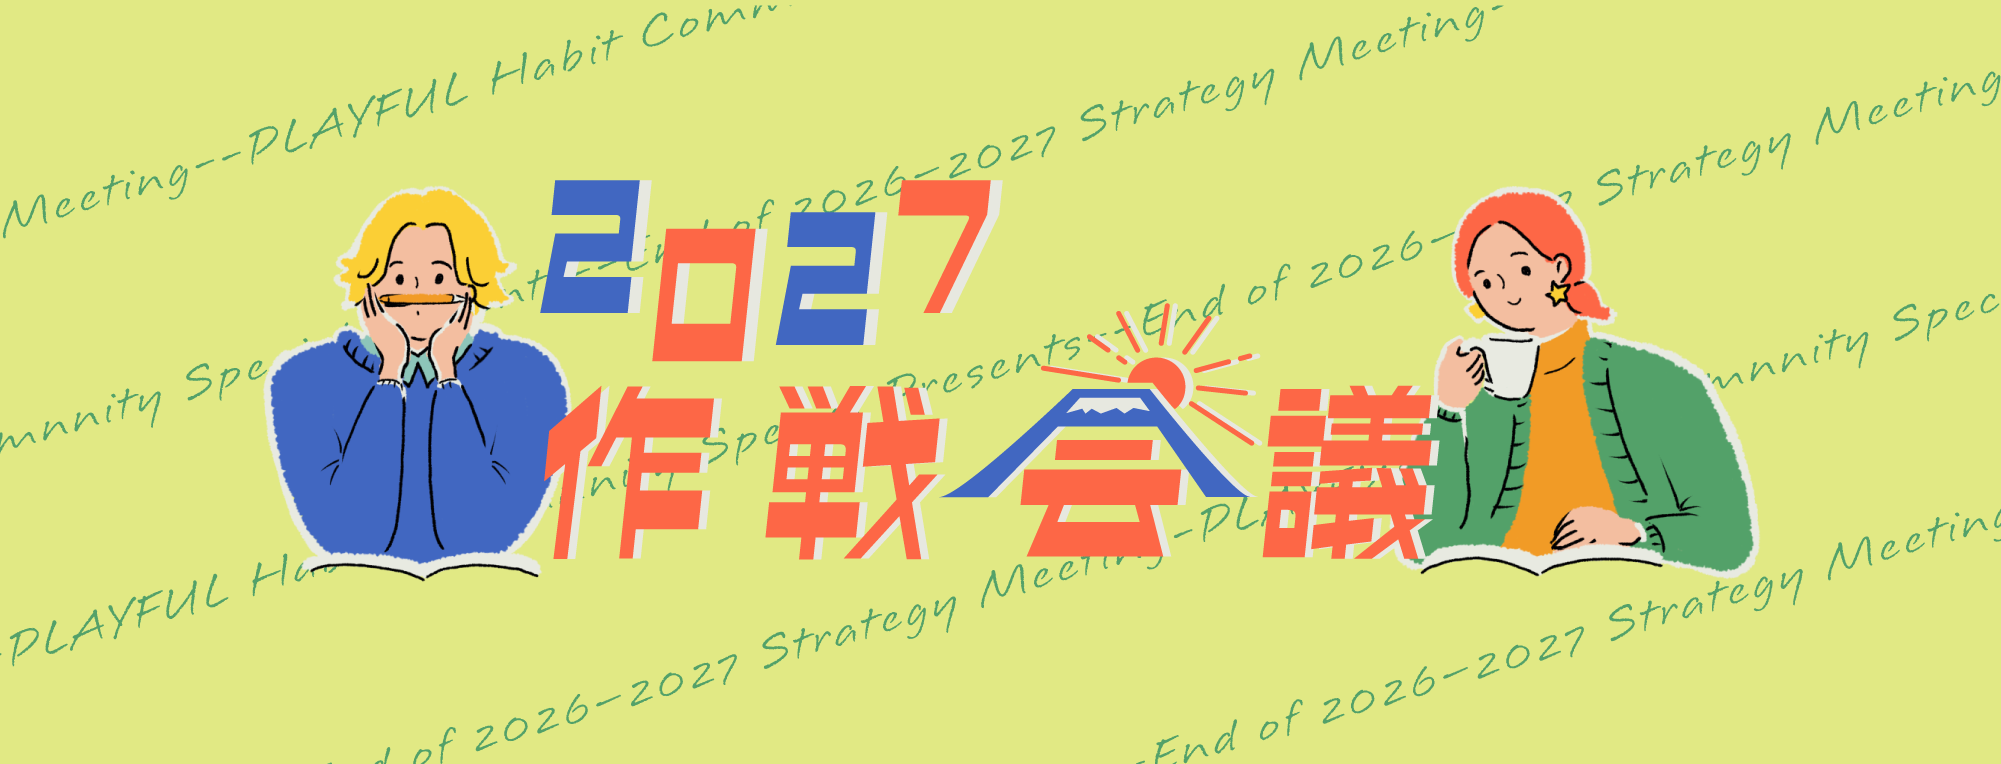
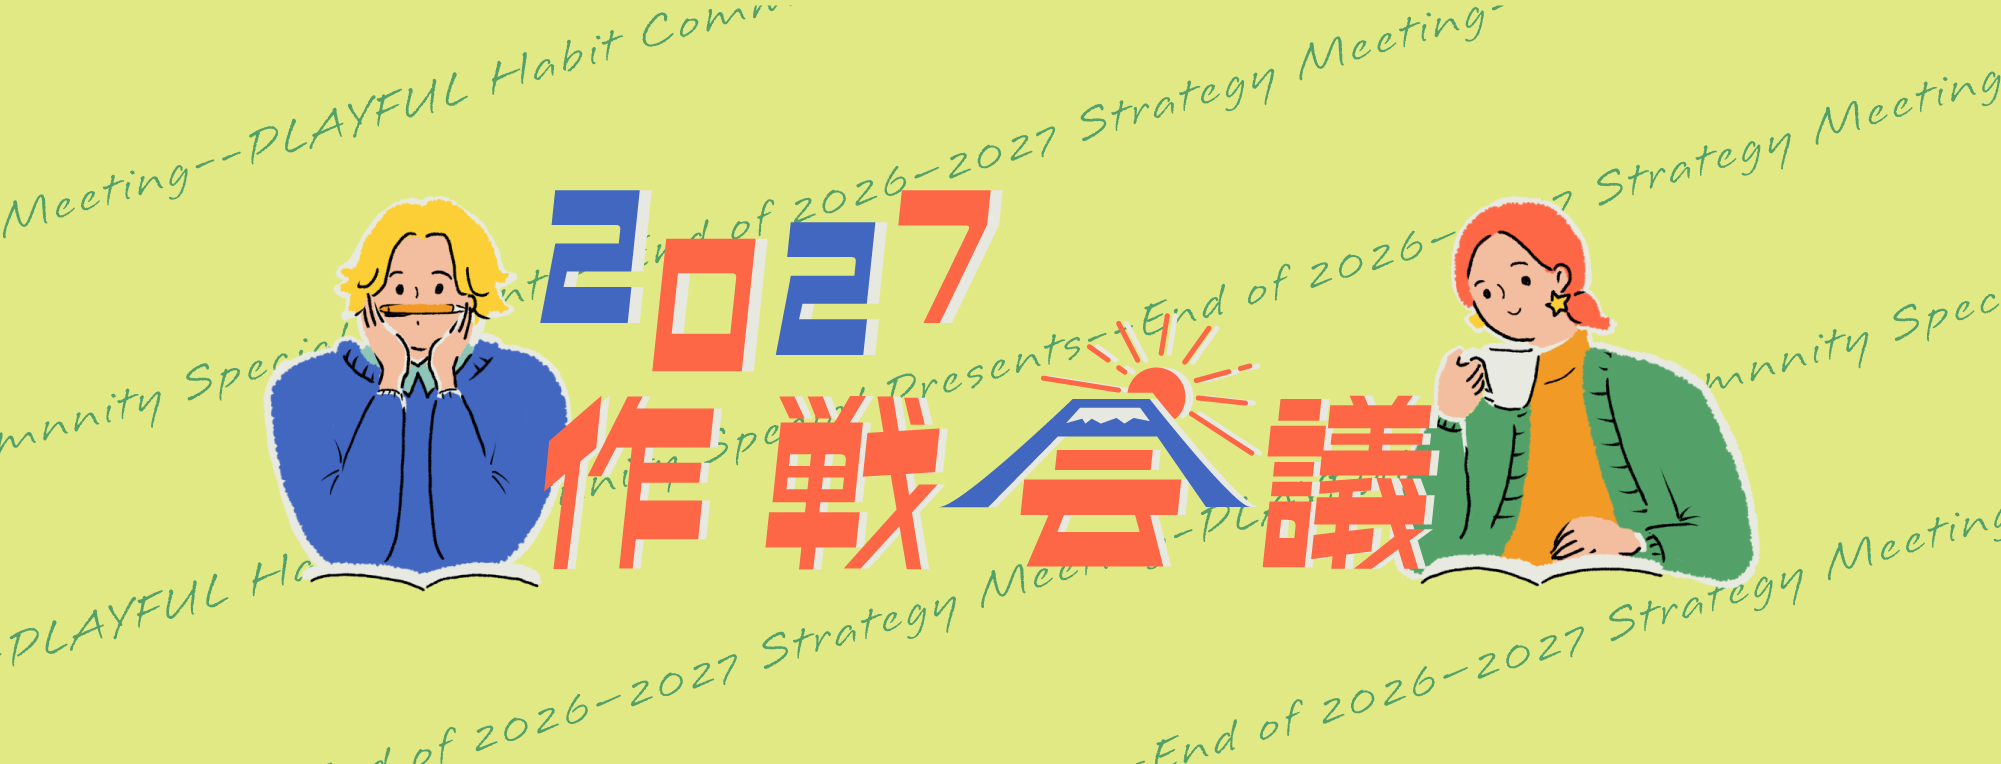
ホームのPC用ヘッダー画像を差し替え（ロゴ・キャラクターを少し下げた版）

Changed region(s): [[0.1239, 0.2107, 0.8986, 0.7827], [0.8676, 0.6021, 0.8986, 0.6623]]

diff --git a/index.html b/index.html
@@ -13,7 +13,7 @@
 <link rel="icon" type="image/png" sizes="192x192" href="img/icon-192.png?v=2">
 <link rel="apple-touch-icon" href="img/apple-touch-icon.png?v=2">
 <meta name="apple-mobile-web-app-title" content="作戦会議">
-<link rel="stylesheet" href="assets/style.css?v=20261120185023">
+<link rel="stylesheet" href="assets/style.css?v=20261120185724">
 </head>
 <body data-page="home">
 <header class="top"><div class="wrap">
@@ -22,7 +22,7 @@
 </div></header>
 
 <main>
-<section class="hero hero-img"><picture><source media="(min-width: 768px)" srcset="img/header-pc.png?v=1" width="2001" height="764"><img src="img/header.png?v=1" alt="2027年作戦会議" width="1601" height="604"></picture></section>
+<section class="hero hero-img"><picture><source media="(min-width: 768px)" srcset="img/header-pc.png?v=2" width="2001" height="764"><img src="img/header.png?v=1" alt="2027年作戦会議" width="1601" height="604"></picture></section>
 
 <section style="padding-top:32px"><div class="wrap">
   <div id="news"></div>
@@ -60,7 +60,7 @@
 </main>
 <footer><img src="img/playful-logo.png" alt="PLAYFUL" width="946" height="158">2027年作戦会議｜メンバー専用ページ<br>このページのURLは、メンバーの外に共有しないでください</footer>
 <nav class="tabbar" aria-label="メニュー"><a href="index.html" aria-current="page"><span class="i ic-home" aria-hidden="true"></span>ホーム</a><a href="zoom.html"><span class="i ic-zoom" aria-hidden="true"></span>Zoom</a><a href="odai.html"><span class="i ic-odai" aria-hidden="true"></span>問い</a><a href="work.html"><span class="i ic-work" aria-hidden="true"></span>ワーク</a><a href="library.html"><span class="i ic-library" aria-hidden="true"></span>ライブラリ</a></nav>
-<script src="data.js?v=20261120185023"></script>
-<script src="assets/app.js?v=20261120185023"></script>
+<script src="data.js?v=20261120185724"></script>
+<script src="assets/app.js?v=20261120185724"></script>
 </body>
 </html>

diff --git a/item.html b/item.html
@@ -13,7 +13,7 @@
 <link rel="icon" type="image/png" sizes="192x192" href="img/icon-192.png?v=2">
 <link rel="apple-touch-icon" href="img/apple-touch-icon.png?v=2">
 <meta name="apple-mobile-web-app-title" content="作戦会議">
-<link rel="stylesheet" href="assets/style.css?v=20261120185023">
+<link rel="stylesheet" href="assets/style.css?v=20261120185724">
 </head>
 <body data-page="item">
 <header class="top"><div class="wrap">
@@ -49,8 +49,8 @@
 <div class="lightbox" id="lb" role="dialog" aria-label="スライドの拡大表示"><img id="lbImg" src="" alt=""><button id="lbClose" type="button" aria-label="閉じる">✕</button></div>
 <footer><img src="img/playful-logo.png" alt="PLAYFUL" width="946" height="158">2027年作戦会議｜メンバー専用ページ<br>このページのURLは、メンバーの外に共有しないでください</footer>
 <nav class="tabbar" aria-label="メニュー"><a href="index.html"><span class="i ic-home" aria-hidden="true"></span>ホーム</a><a href="zoom.html"><span class="i ic-zoom" aria-hidden="true"></span>Zoom</a><a href="odai.html"><span class="i ic-odai" aria-hidden="true"></span>問い</a><a href="work.html"><span class="i ic-work" aria-hidden="true"></span>ワーク</a><a href="library.html" aria-current="page"><span class="i ic-library" aria-hidden="true"></span>ライブラリ</a></nav>
-<script src="data.js?v=20261120185023"></script>
-<script src="notes.js?v=20261120185023"></script>
-<script src="assets/app.js?v=20261120185023"></script>
+<script src="data.js?v=20261120185724"></script>
+<script src="notes.js?v=20261120185724"></script>
+<script src="assets/app.js?v=20261120185724"></script>
 </body>
 </html>

diff --git a/zoom.html b/zoom.html
@@ -13,7 +13,7 @@
 <link rel="icon" type="image/png" sizes="192x192" href="img/icon-192.png?v=2">
 <link rel="apple-touch-icon" href="img/apple-touch-icon.png?v=2">
 <meta name="apple-mobile-web-app-title" content="作戦会議">
-<link rel="stylesheet" href="assets/style.css?v=20261120185023">
+<link rel="stylesheet" href="assets/style.css?v=20261120185724">
 </head>
 <body data-page="zoom">
 <header class="top"><div class="wrap">
@@ -66,7 +66,7 @@
 <div class="lightbox" id="lb" role="dialog" aria-label="スライドの拡大表示"><img id="lbImg" src="" alt=""><button id="lbClose" type="button" aria-label="閉じる">✕</button></div>
 <footer><img src="img/playful-logo.png" alt="PLAYFUL" width="946" height="158">2027年作戦会議｜メンバー専用ページ<br>このページのURLは、メンバーの外に共有しないでください</footer>
 <nav class="tabbar" aria-label="メニュー"><a href="index.html"><span class="i ic-home" aria-hidden="true"></span>ホーム</a><a href="zoom.html" aria-current="page"><span class="i ic-zoom" aria-hidden="true"></span>Zoom</a><a href="odai.html"><span class="i ic-odai" aria-hidden="true"></span>問い</a><a href="work.html"><span class="i ic-work" aria-hidden="true"></span>ワーク</a><a href="library.html"><span class="i ic-library" aria-hidden="true"></span>ライブラリ</a></nav>
-<script src="data.js?v=20261120185023"></script>
-<script src="assets/app.js?v=20261120185023"></script>
+<script src="data.js?v=20261120185724"></script>
+<script src="assets/app.js?v=20261120185724"></script>
 </body>
 </html>

diff --git a/library.html b/library.html
@@ -13,7 +13,7 @@
 <link rel="icon" type="image/png" sizes="192x192" href="img/icon-192.png?v=2">
 <link rel="apple-touch-icon" href="img/apple-touch-icon.png?v=2">
 <meta name="apple-mobile-web-app-title" content="作戦会議">
-<link rel="stylesheet" href="assets/style.css?v=20261120185023">
+<link rel="stylesheet" href="assets/style.css?v=20261120185724">
 </head>
 <body data-page="library">
 <header class="top"><div class="wrap">
@@ -38,8 +38,8 @@
 </main>
 <footer><img src="img/playful-logo.png" alt="PLAYFUL" width="946" height="158">2027年作戦会議｜メンバー専用ページ<br>このページのURLは、メンバーの外に共有しないでください</footer>
 <nav class="tabbar" aria-label="メニュー"><a href="index.html"><span class="i ic-home" aria-hidden="true"></span>ホーム</a><a href="zoom.html"><span class="i ic-zoom" aria-hidden="true"></span>Zoom</a><a href="odai.html"><span class="i ic-odai" aria-hidden="true"></span>問い</a><a href="work.html"><span class="i ic-work" aria-hidden="true"></span>ワーク</a><a href="library.html" aria-current="page"><span class="i ic-library" aria-hidden="true"></span>ライブラリ</a></nav>
-<script src="data.js?v=20261120185023"></script>
-<script src="notes.js?v=20261120185023"></script>
-<script src="assets/app.js?v=20261120185023"></script>
+<script src="data.js?v=20261120185724"></script>
+<script src="notes.js?v=20261120185724"></script>
+<script src="assets/app.js?v=20261120185724"></script>
 </body>
 </html>

diff --git a/odai.html b/odai.html
@@ -13,7 +13,7 @@
 <link rel="icon" type="image/png" sizes="192x192" href="img/icon-192.png?v=2">
 <link rel="apple-touch-icon" href="img/apple-touch-icon.png?v=2">
 <meta name="apple-mobile-web-app-title" content="作戦会議">
-<link rel="stylesheet" href="assets/style.css?v=20261120185023">
+<link rel="stylesheet" href="assets/style.css?v=20261120185724">
 </head>
 <body data-page="odai">
 <header class="top"><div class="wrap">
@@ -30,7 +30,7 @@
 </main>
 <footer><img src="img/playful-logo.png" alt="PLAYFUL" width="946" height="158">2027年作戦会議｜メンバー専用ページ<br>このページのURLは、メンバーの外に共有しないでください</footer>
 <nav class="tabbar" aria-label="メニュー"><a href="index.html"><span class="i ic-home" aria-hidden="true"></span>ホーム</a><a href="zoom.html"><span class="i ic-zoom" aria-hidden="true"></span>Zoom</a><a href="odai.html" aria-current="page"><span class="i ic-odai" aria-hidden="true"></span>問い</a><a href="work.html"><span class="i ic-work" aria-hidden="true"></span>ワーク</a><a href="library.html"><span class="i ic-library" aria-hidden="true"></span>ライブラリ</a></nav>
-<script src="data.js?v=20261120185023"></script>
-<script src="assets/app.js?v=20261120185023"></script>
+<script src="data.js?v=20261120185724"></script>
+<script src="assets/app.js?v=20261120185724"></script>
 </body>
 </html>

diff --git a/work.html b/work.html
@@ -13,7 +13,7 @@
 <link rel="icon" type="image/png" sizes="192x192" href="img/icon-192.png?v=2">
 <link rel="apple-touch-icon" href="img/apple-touch-icon.png?v=2">
 <meta name="apple-mobile-web-app-title" content="作戦会議">
-<link rel="stylesheet" href="assets/style.css?v=20261120185023">
+<link rel="stylesheet" href="assets/style.css?v=20261120185724">
 </head>
 <body data-page="work">
 <header class="top"><div class="wrap">
@@ -34,7 +34,7 @@
 </main>
 <footer><img src="img/playful-logo.png" alt="PLAYFUL" width="946" height="158">2027年作戦会議｜メンバー専用ページ<br>このページのURLは、メンバーの外に共有しないでください</footer>
 <nav class="tabbar" aria-label="メニュー"><a href="index.html"><span class="i ic-home" aria-hidden="true"></span>ホーム</a><a href="zoom.html"><span class="i ic-zoom" aria-hidden="true"></span>Zoom</a><a href="odai.html"><span class="i ic-odai" aria-hidden="true"></span>問い</a><a href="work.html" aria-current="page"><span class="i ic-work" aria-hidden="true"></span>ワーク</a><a href="library.html"><span class="i ic-library" aria-hidden="true"></span>ライブラリ</a></nav>
-<script src="data.js?v=20261120185023"></script>
-<script src="assets/app.js?v=20261120185023"></script>
+<script src="data.js?v=20261120185724"></script>
+<script src="assets/app.js?v=20261120185724"></script>
 </body>
 </html>

diff --git a/receipt.html b/receipt.html
@@ -13,7 +13,7 @@
 <link rel="icon" type="image/png" sizes="192x192" href="img/icon-192.png?v=2">
 <link rel="apple-touch-icon" href="img/apple-touch-icon.png?v=2">
 <meta name="apple-mobile-web-app-title" content="作戦会議">
-<link rel="stylesheet" href="assets/style.css?v=20261120185023">
+<link rel="stylesheet" href="assets/style.css?v=20261120185724">
 </head>
 <body data-page="receipt">
 <header class="top"><div class="wrap">
@@ -60,7 +60,7 @@
 </main>
 <footer><img src="img/playful-logo.png" alt="PLAYFUL" width="946" height="158">2027年作戦会議｜メンバー専用ページ<br>このページのURLは、メンバーの外に共有しないでください</footer>
 <nav class="tabbar" aria-label="メニュー"><a href="index.html"><span class="i ic-home" aria-hidden="true"></span>ホーム</a><a href="zoom.html"><span class="i ic-zoom" aria-hidden="true"></span>Zoom</a><a href="odai.html"><span class="i ic-odai" aria-hidden="true"></span>問い</a><a href="work.html"><span class="i ic-work" aria-hidden="true"></span>ワーク</a><a href="library.html"><span class="i ic-library" aria-hidden="true"></span>ライブラリ</a></nav>
-<script src="data.js?v=20261120185023"></script>
-<script src="assets/app.js?v=20261120185023"></script>
+<script src="data.js?v=20261120185724"></script>
+<script src="assets/app.js?v=20261120185724"></script>
 </body>
 </html>
